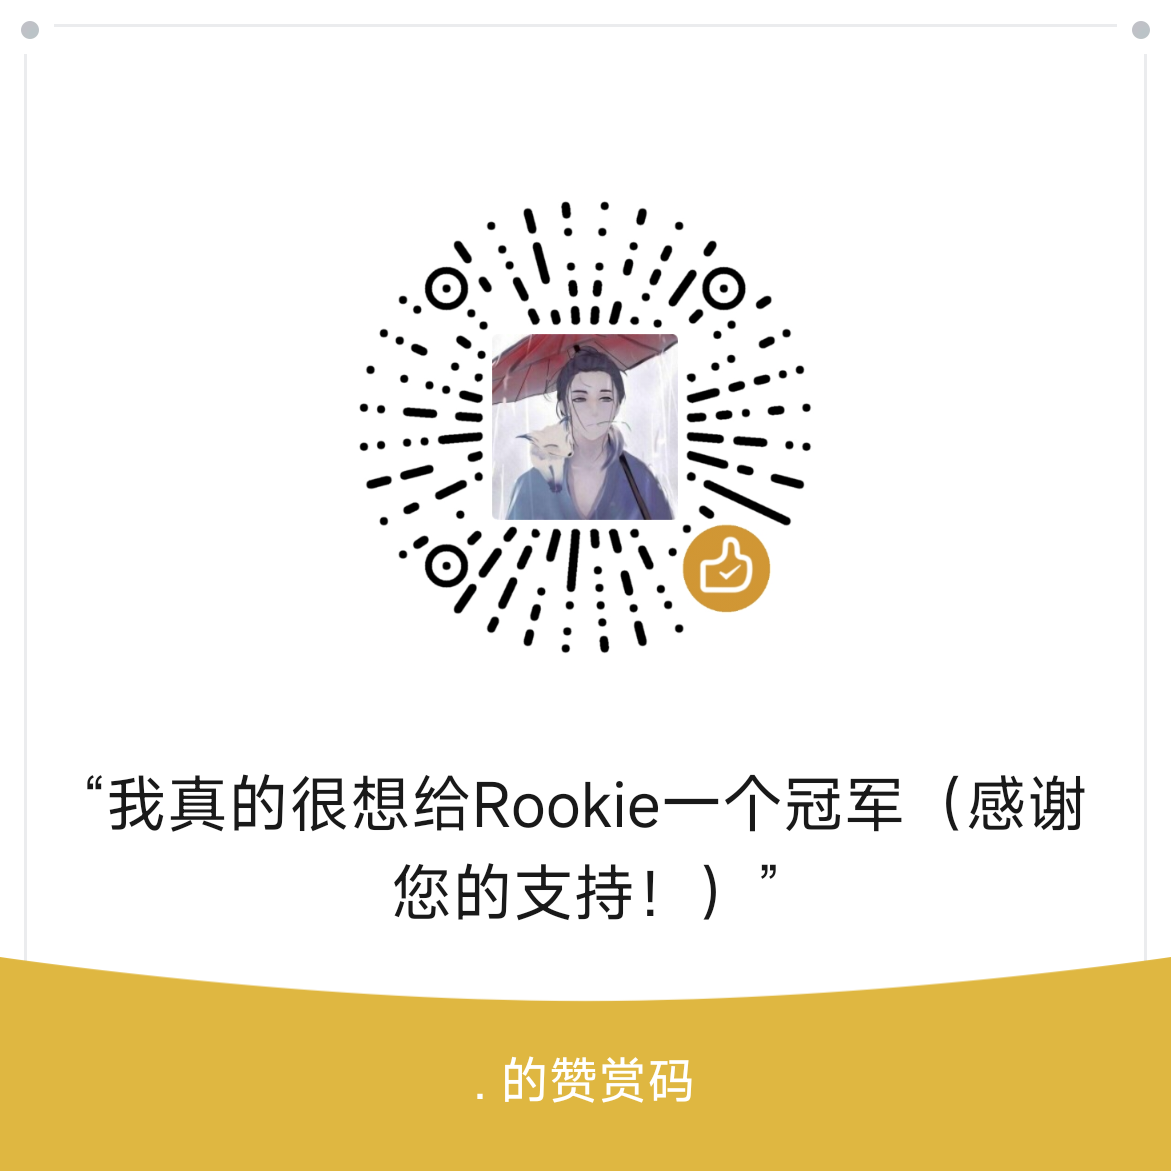
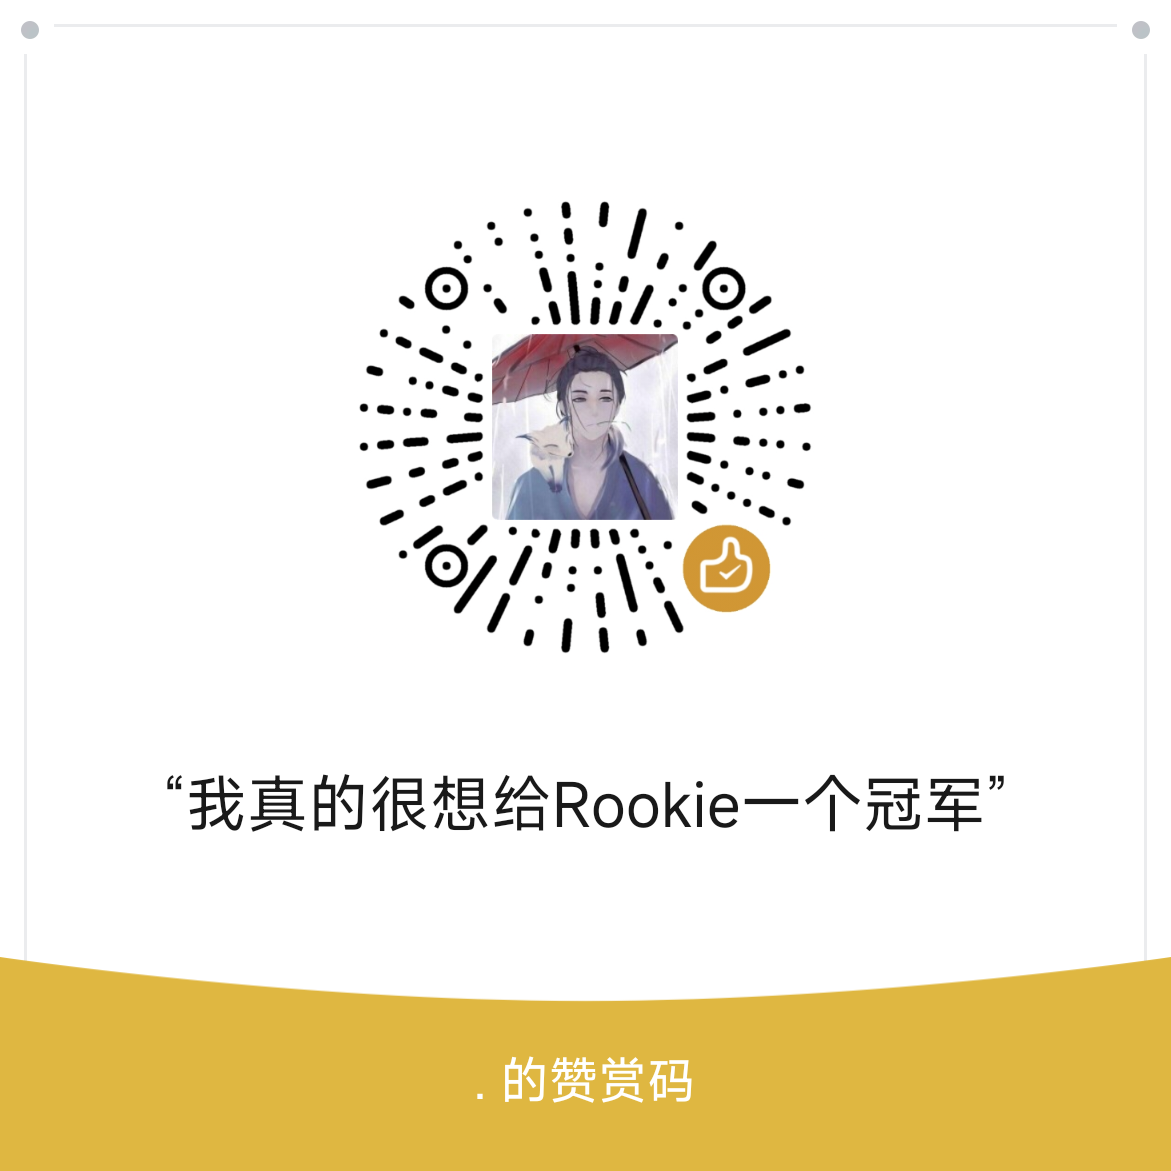
Update support QR section

diff --git a/README.md b/README.md
@@ -64,10 +64,10 @@
 
 如果这个小工具让你会心一笑，欢迎扫码支持。感谢每一位喜欢 IG 的朋友。
 
-| 赞赏码 | 僵王博士一只 |
-| :---: | :---: |
-| <img src="docs/reward-qr.png" width="240" alt="赞赏码"> | <img src="docs/dr-zomboss.png" height="240" alt="僵王博士一只"> |
-| 扫码赞赏，感谢支持 | 僵王博士一只 |
+<p align="center">
+  <img src="docs/reward-qr.png" width="260" alt="赞赏码"><br>
+  <sub>扫码赞赏，感谢支持</sub>
+</p>
 
 ## 安装
 
